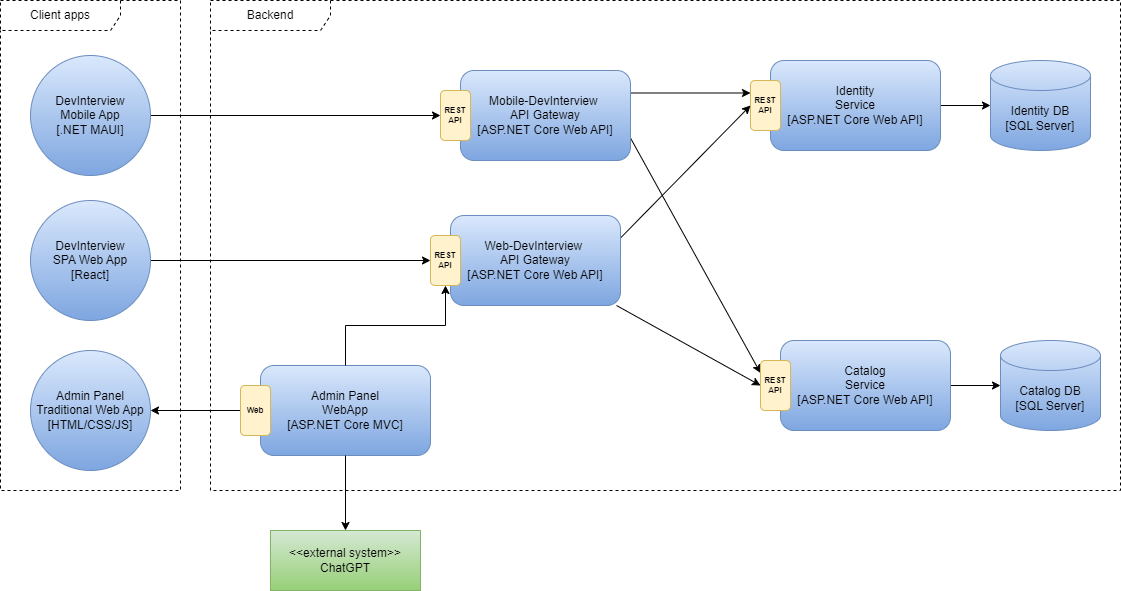
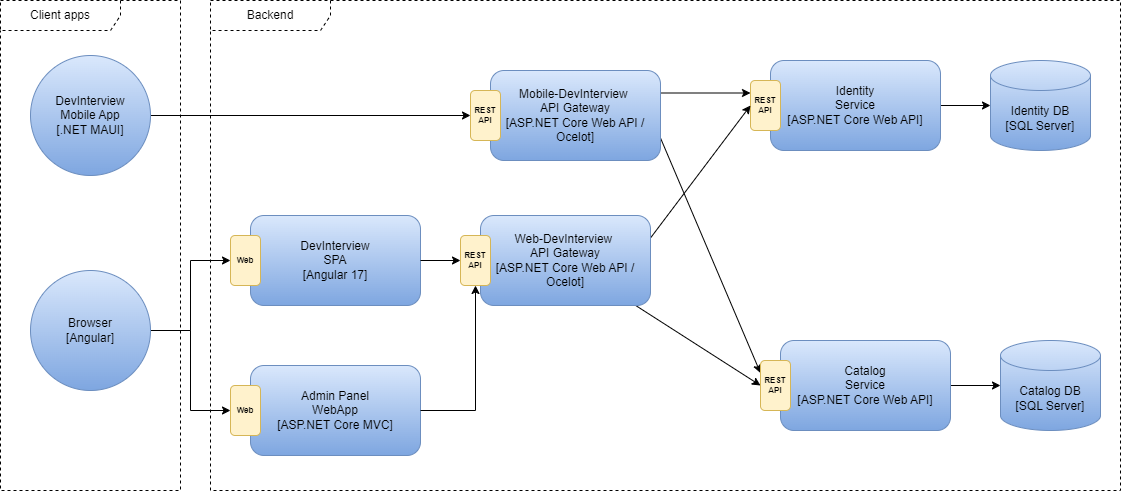
doc

diff --git a/Readme.md b/Readme.md
@@ -186,11 +186,12 @@ The following diagram shows the logical containers that make up the **DevIntervi
 
 ![](docs/images/containers.png)
 
-- **Admin Panel**: An admin panel serves as a user-friendly control center to maintain various aspects of your web application like managing and organising content, tracking website analytics, managing user accounts, and performing various other tasks.
-- **Web-DevInterview API Gateway**: abc
-- **Mobile-DevInterview API Gateway**: abc
-- **Identity Service**: abc
-- **Catalog Service**: abc
+- **Admin Panel WebApp**: An admin panel serves as a user-friendly control center to maintain various aspects of your web application like managing and organising content, tracking website analytics, managing user accounts, and performing various other tasks.
+- **DevInterview SPA**: ...
+- **Web-DevInterview API Gateway**: ...
+- **Mobile-DevInterview API Gateway**: ...
+- **Identity Service**: ...
+- **Catalog Service**: ...
 
 ## Infrastructure Architecture
 
